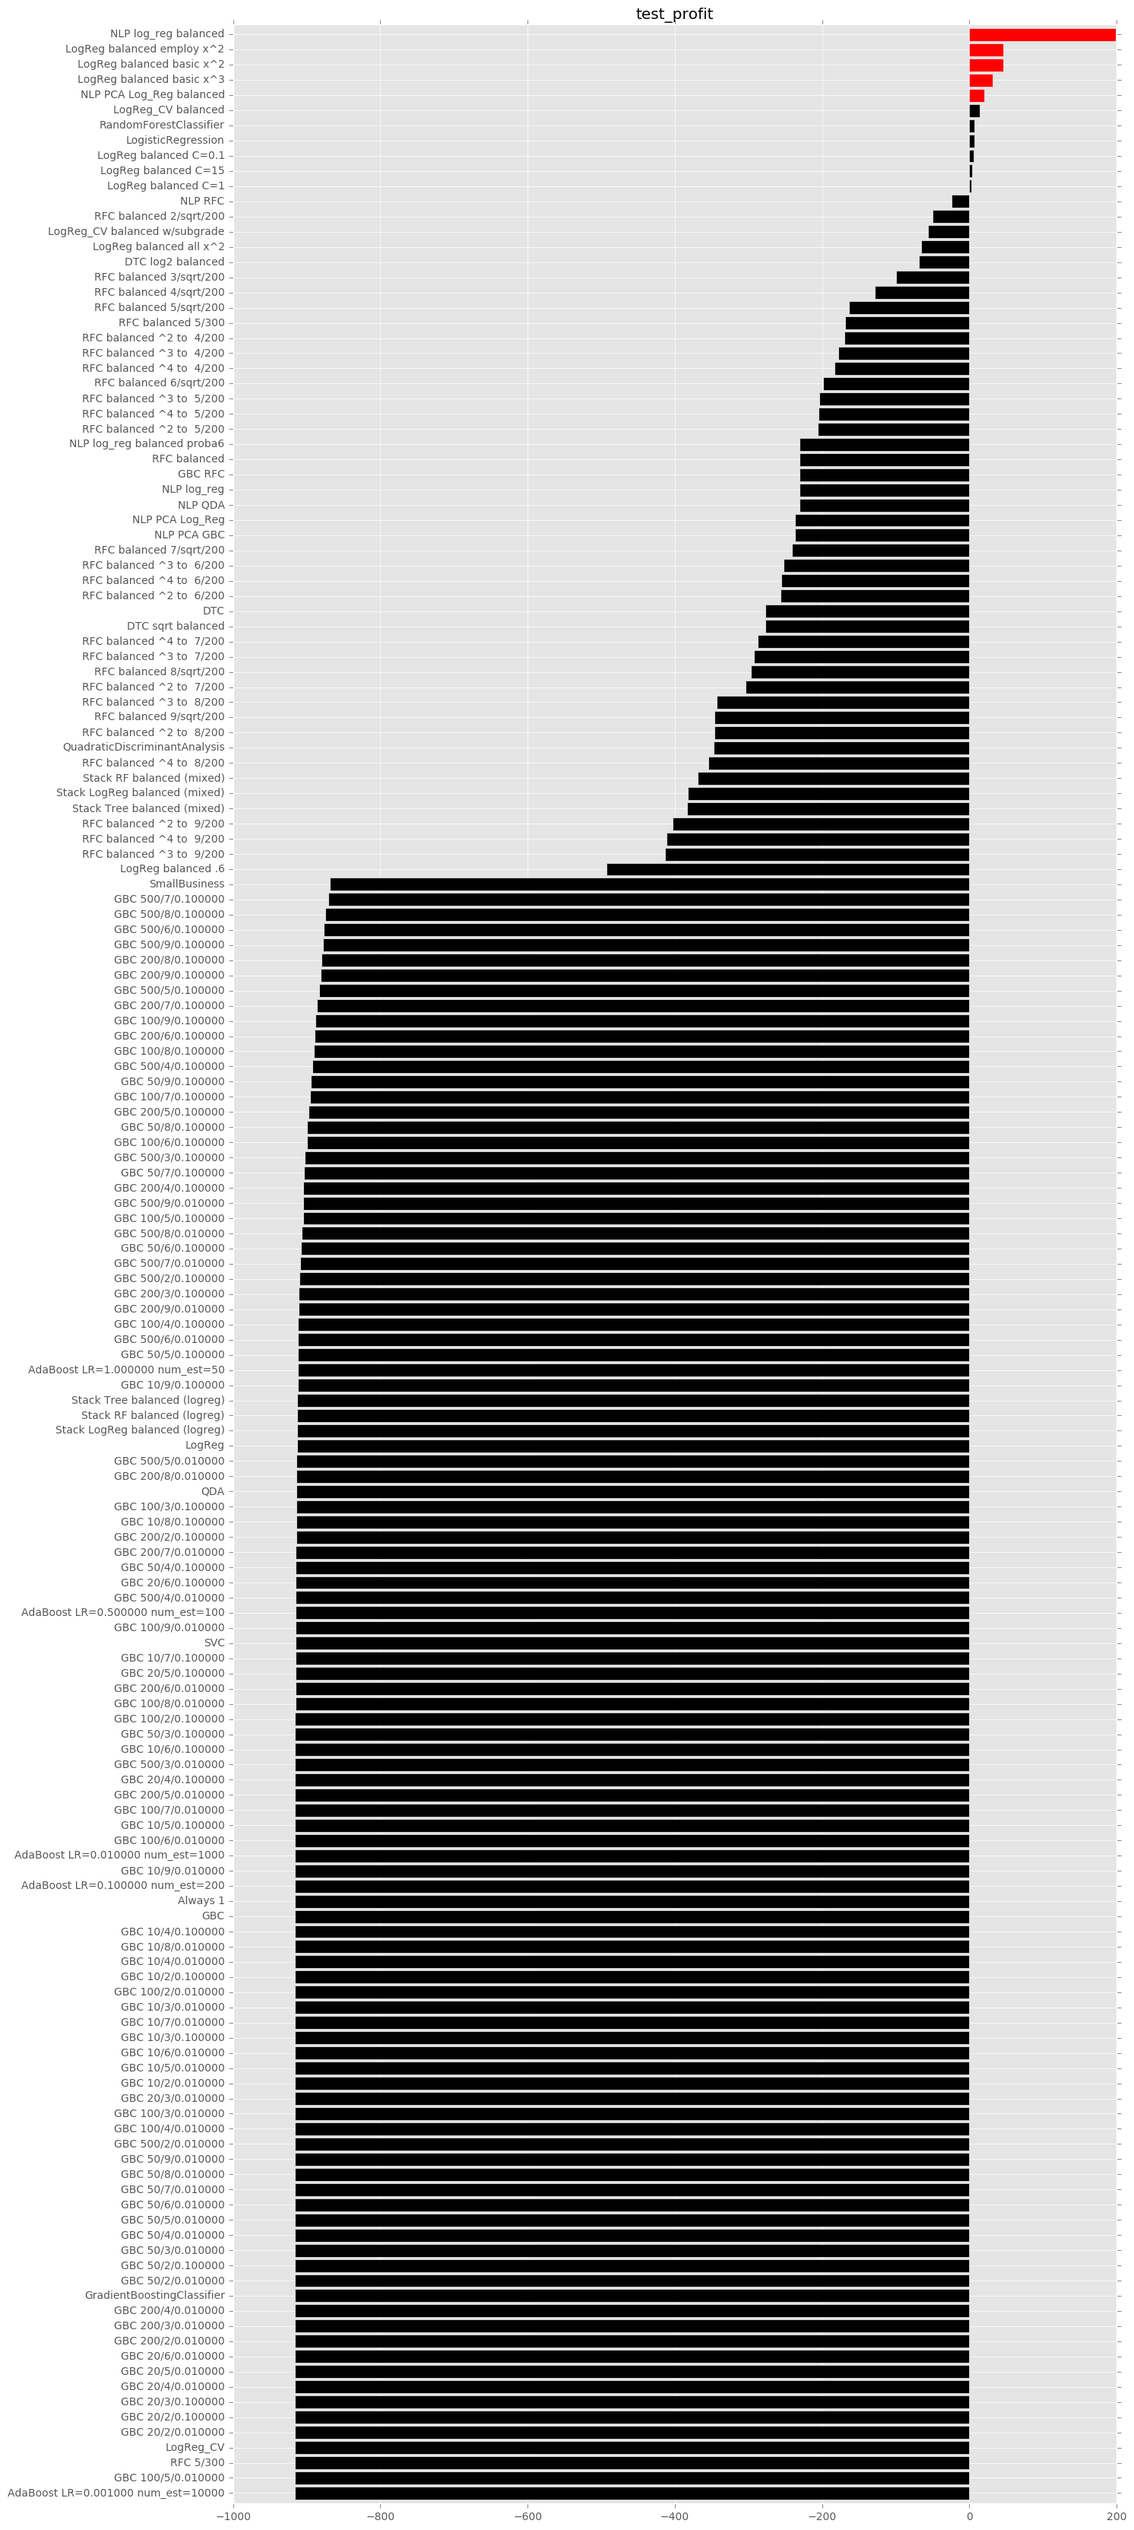
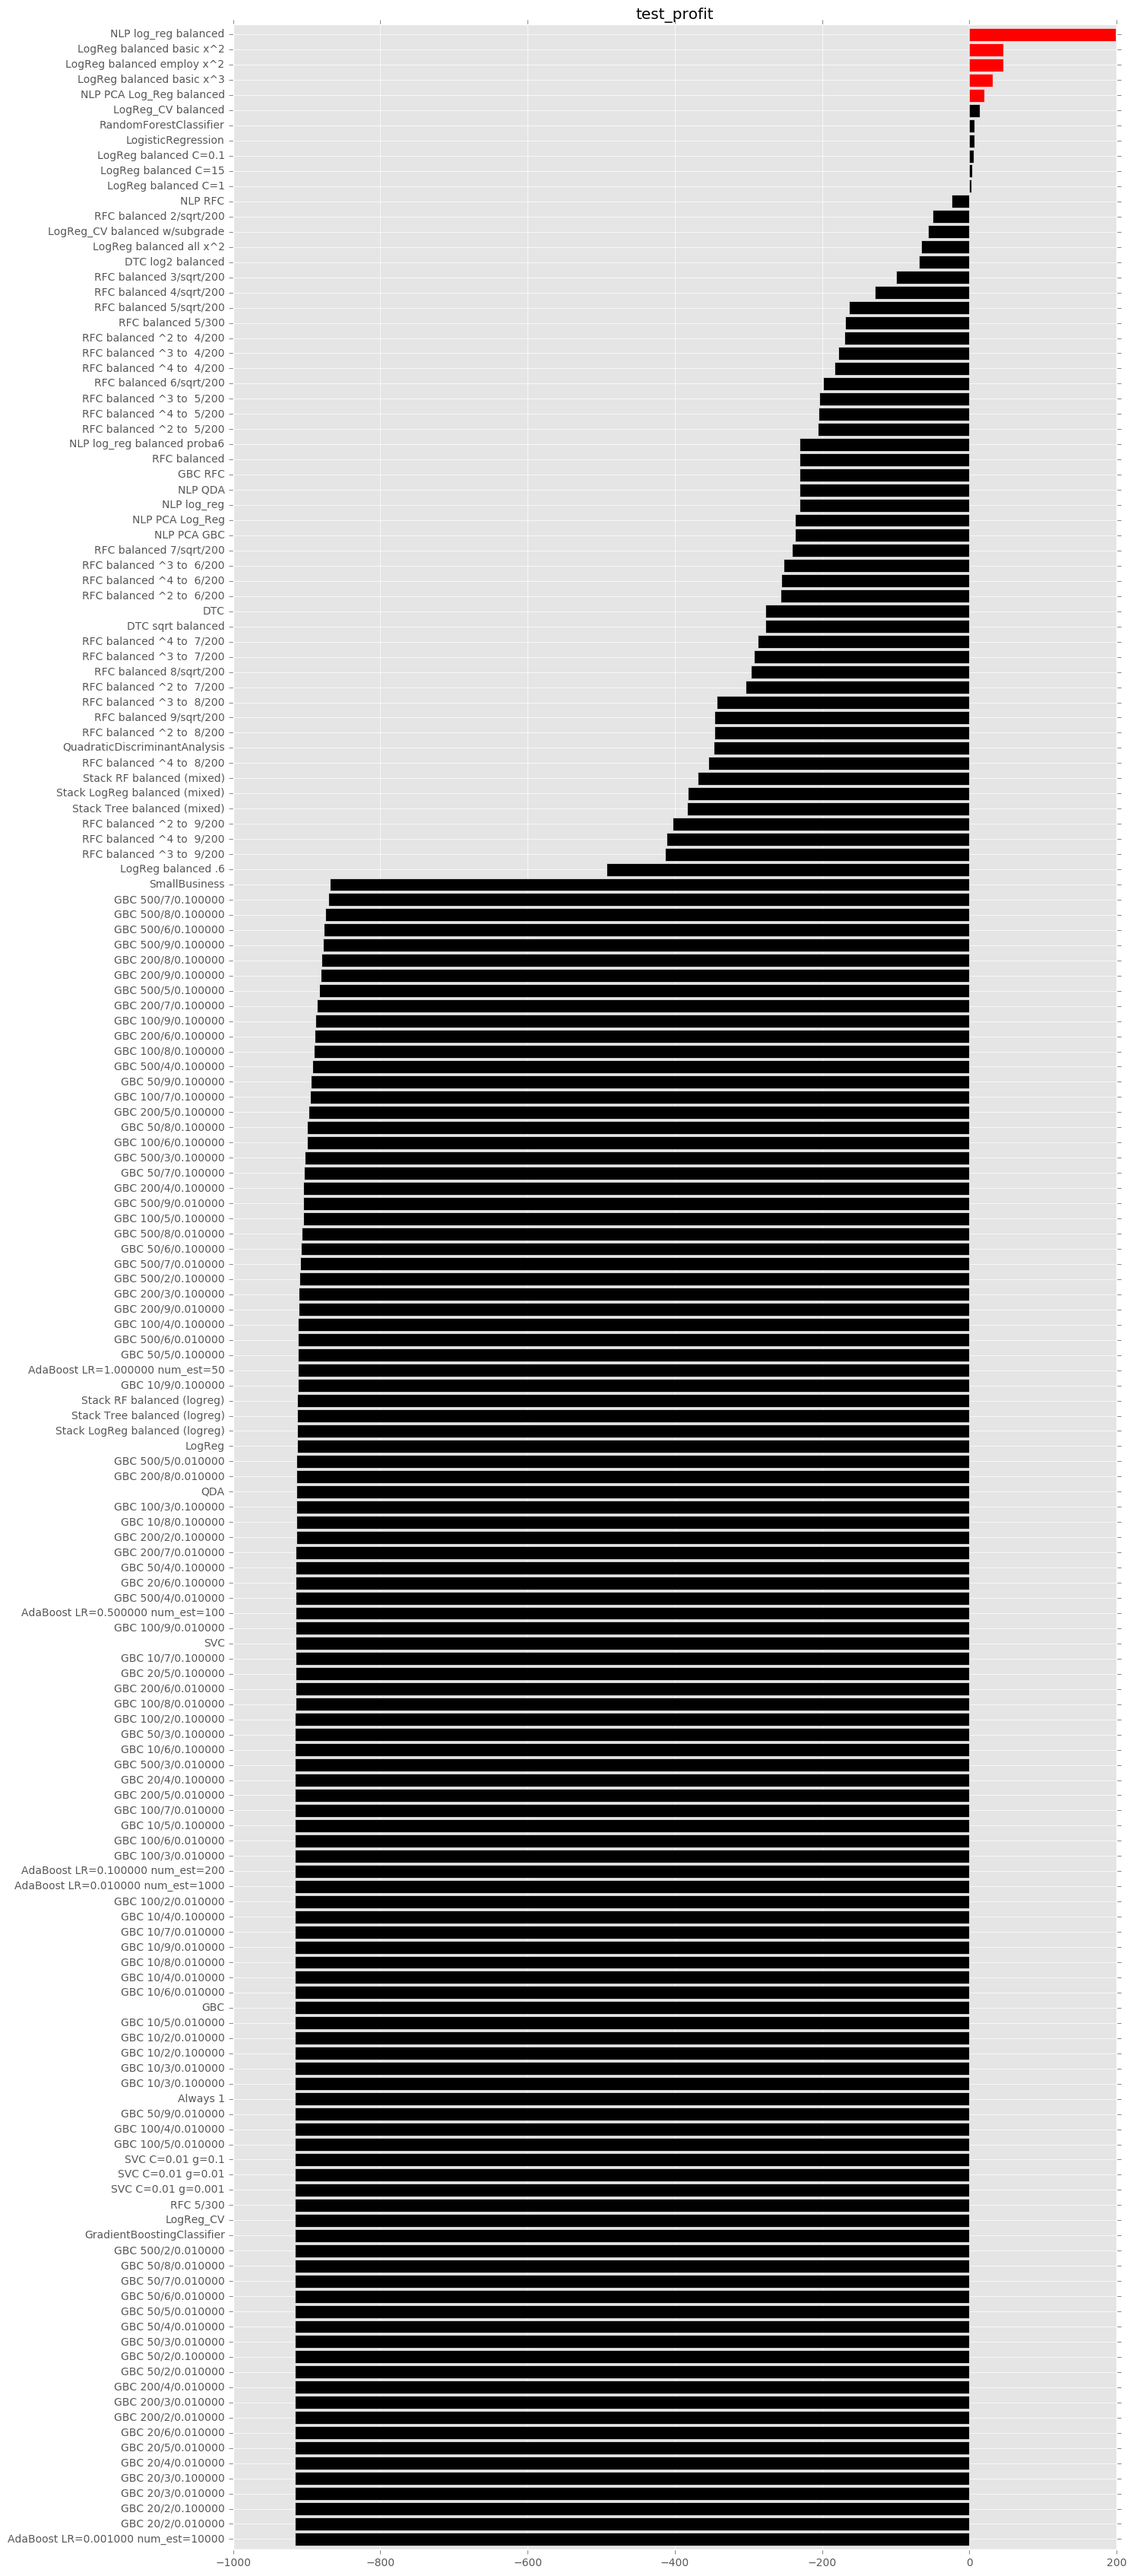
Updated with latest SVC results

diff --git a/docs/05-Analysis.html b/docs/05-Analysis.html
@@ -274,9 +274,9 @@ metrics.</p>
 <tr><th>RFC balanced ^4 to  9/200</th><td>0.649</td><td>0.823</td><td>0.756</td><td>0.718</td><td>0.365</td><td>0.756</td><td>0.710</td></tr>
 <tr><th>RandomForestClassifier</th><td>0.611</td><td>0.726</td><td>0.774</td><td>0.612</td><td>0.530</td><td>0.782</td><td>0.603</td></tr>
 <tr><th>SVC</th><td class='better'>0.666</td><td>0.724</td><td>0.317</td><td>0.608</td><td>0.001</td><td>0.564</td><td>0.609</td></tr>
-<tr><th>SVC 0.01</th><td class='better'>0.666</td><td>0.724</td><td>0.317</td><td>0.608</td><td>0.001</td><td>0.564</td><td>0.609</td></tr>
-<tr><th>SVC 0.0316227766017</th><td class='better'>0.666</td><td>0.724</td><td>0.317</td><td>0.608</td><td>0.001</td><td>0.564</td><td>0.609</td></tr>
-<tr><th>SVC 0.1</th><td class='better'>0.666</td><td>0.724</td><td>0.317</td><td>0.608</td><td>0.001</td><td>0.564</td><td>0.609</td></tr>
+<tr><th>SVC C=0.01 g=0.001</th><td>0.412</td><td>0.182</td><td>nan</td><td>0.288</td><td>0.000</td><td>nan</td><td>0.162</td></tr>
+<tr><th>SVC C=0.01 g=0.01</th><td>0.637</td><td>0.676</td><td>nan</td><td>0.559</td><td>0.000</td><td>nan</td><td>0.562</td></tr>
+<tr><th>SVC C=0.01 g=0.1</th><td>0.635</td><td>0.764</td><td>nan</td><td>0.648</td><td>0.000</td><td>nan</td><td>0.641</td></tr>
 <tr><th>SmallBusiness</th><td>0.507</td><td>0.911</td><td>0.763</td><td>0.838</td><td>0.034</td><td>0.761</td><td>0.838</td></tr>
 <tr><th>Stack LogReg balanced (logreg)</th><td>0.502</td><td>0.918</td><td>0.556</td><td>0.848</td><td>0.002</td><td>0.564</td><td>0.848</td></tr>
 <tr><th>Stack LogReg balanced (mixed)</th><td>0.536</td><td>0.808</td><td>0.807</td><td>0.693</td><td>0.375</td><td class='better'>0.815</td><td>0.689</td></tr>
@@ -293,7 +293,7 @@ metrics.</p>
   
 <h4 style="margin-top: 3%;">ROC Area Under Curve</h4>
 
-<p class='model-note'>Red cells indicate results exceeding baseline.</p>
+<p class='model-note'>Red bars indicate results exceeding baseline.</p>
   
 <p><img src="images/score_auc.png"  style="width: 90%;"></p>
 <a name='continued_2' />
@@ -301,7 +301,7 @@ metrics.</p>
 
 <h4 style="margin-top: 2%;">Test Classification Accuracy</h4>
 
-<p class='model-note'>Red cells indicate results exceeding baseline.</p>
+<p class='model-note'>Red bars indicate results exceeding baseline.</p>
   
 <p><img src="images/score_test_score.png" style="width: 90%;"></p>
 <a name='continued_3' />
@@ -310,7 +310,7 @@ metrics.</p>
   
 <h4 style="margin-top: 2%;">Test Precision</h4>
 
-<p class='model-note'>Red cells indicate results exceeding baseline.</p>
+<p class='model-note'>Red bars indicate results exceeding baseline.</p>
   
 <p><img src="images/score_test_prec.png" style="width: 90%;"></p>
 

diff --git a/docs/model_performance.html b/docs/model_performance.html
@@ -154,6 +154,9 @@
 <tr><th>RFC balanced ^4 to  9/200</th><td>0.649</td><td>0.823</td><td>0.756</td><td>0.718</td><td>0.365</td><td>0.756</td><td>0.710</td></tr>
 <tr><th>RandomForestClassifier</th><td>0.611</td><td>0.726</td><td>0.774</td><td>0.612</td><td>0.530</td><td>0.782</td><td>0.603</td></tr>
 <tr><th>SVC</th><td class='better'>0.666</td><td>0.724</td><td>0.317</td><td>0.608</td><td>0.001</td><td>0.564</td><td>0.609</td></tr>
+<tr><th>SVC C=0.01 g=0.001</th><td>0.412</td><td>0.182</td><td>nan</td><td>0.288</td><td>0.000</td><td>nan</td><td>0.162</td></tr>
+<tr><th>SVC C=0.01 g=0.01</th><td>0.637</td><td>0.676</td><td>nan</td><td>0.559</td><td>0.000</td><td>nan</td><td>0.562</td></tr>
+<tr><th>SVC C=0.01 g=0.1</th><td>0.635</td><td>0.764</td><td>nan</td><td>0.648</td><td>0.000</td><td>nan</td><td>0.641</td></tr>
 <tr><th>SmallBusiness</th><td>0.507</td><td>0.911</td><td>0.763</td><td>0.838</td><td>0.034</td><td>0.761</td><td>0.838</td></tr>
 <tr><th>Stack LogReg balanced (logreg)</th><td>0.502</td><td>0.918</td><td>0.556</td><td>0.848</td><td>0.002</td><td>0.564</td><td>0.848</td></tr>
 <tr><th>Stack LogReg balanced (mixed)</th><td>0.536</td><td>0.808</td><td>0.807</td><td>0.693</td><td>0.375</td><td class='better'>0.815</td><td>0.689</td></tr>
